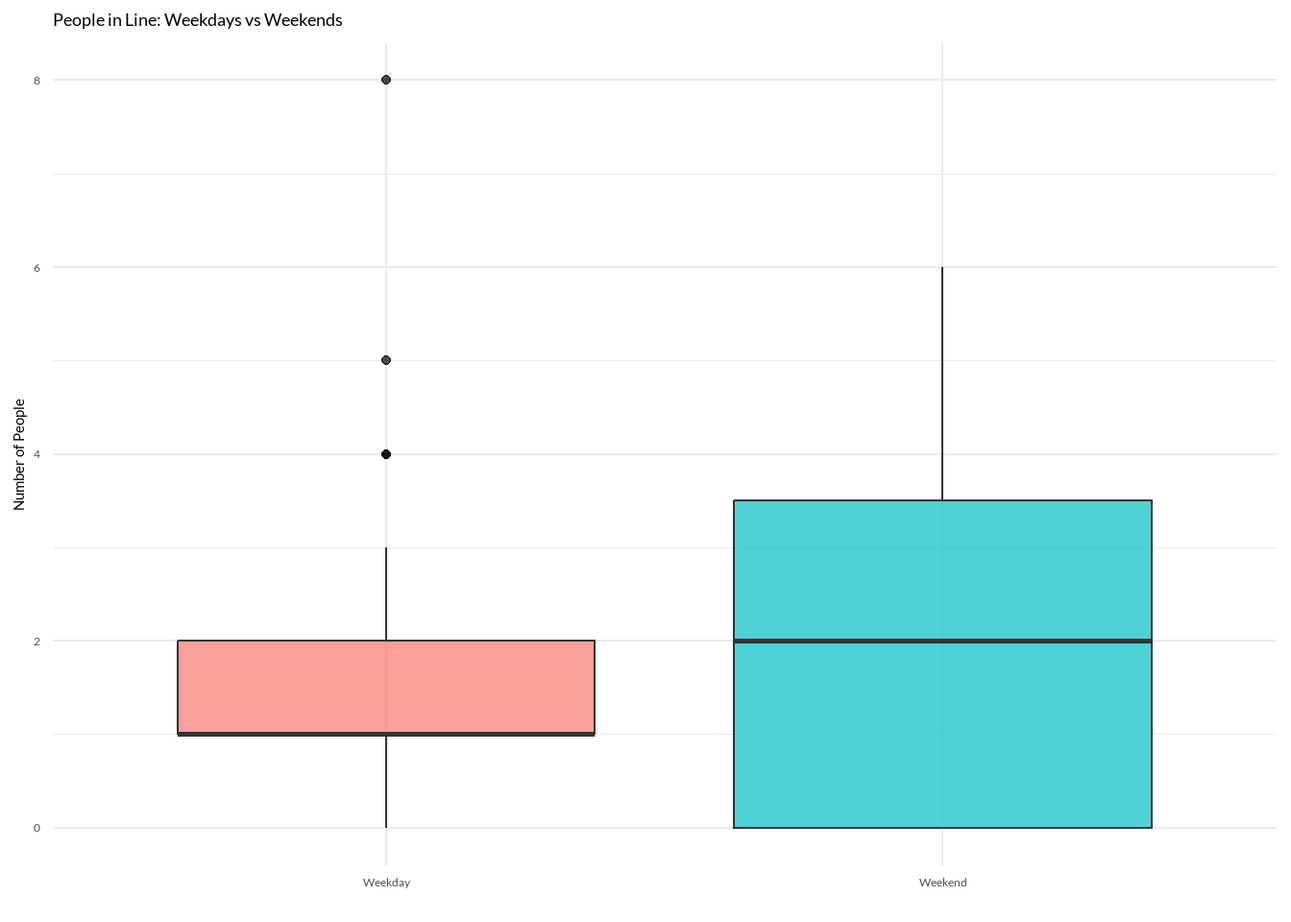
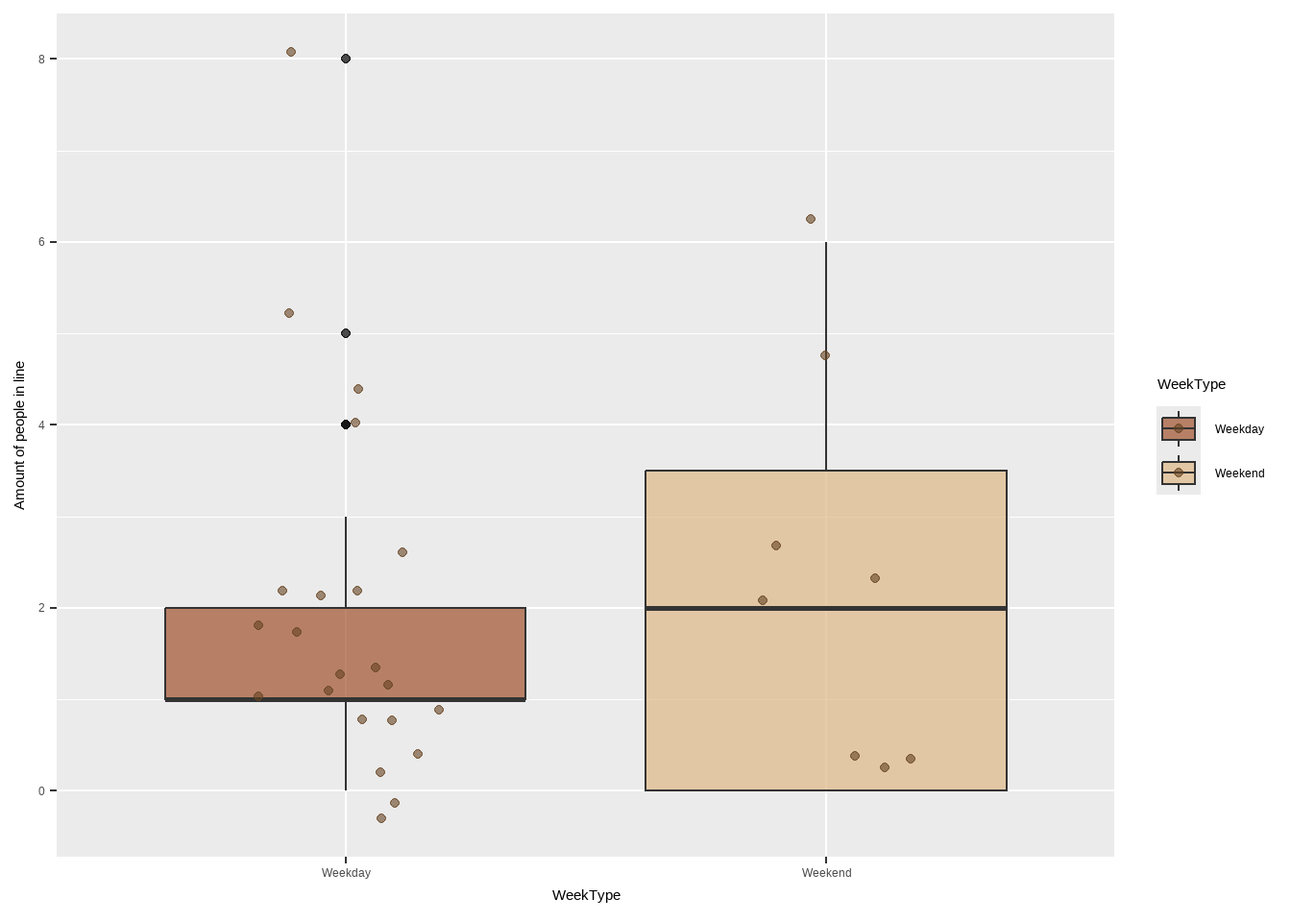
Updating plots, replaced density distribution with raincloud plot. Included individual data points for both box plots. Updated colors and axis titles.

diff --git a/code/Advanced Data Quarto.html b/code/Advanced Data Quarto.html
@@ -7,6 +7,7 @@
 <meta name="viewport" content="width=device-width, initial-scale=1.0, user-scalable=yes">
 
 <meta name="author" content="Alyssa Ambrosini">
+<meta name="dcterms.date" content="2025-05-27">
 
 <title>Advanced Data Visualization</title>
 <style>
@@ -94,6 +95,12 @@ pre > code.sourceCode > span > a:first-child::before { text-decoration: underlin
           </div>
   </div>
     
+    <div>
+    <div class="quarto-title-meta-heading">Published</div>
+    <div class="quarto-title-meta-contents">
+      <p class="date">May 27, 2025</p>
+    </div>
+  </div>
   
     
   </div>
@@ -156,13 +163,29 @@ time (1): Start Time
 <div class="cell">
 <div class="sourceCode cell-code" id="cb10"><pre class="sourceCode r code-with-copy"><code class="sourceCode r"><span id="cb10-1"><a href="#cb10-1" aria-hidden="true" tabindex="-1"></a><span class="co"># Visualization 1: Creation of boxplot for Number of People in Line on Weekdays vs. Weekends</span></span>
 <span id="cb10-2"><a href="#cb10-2" aria-hidden="true" tabindex="-1"></a></span>
-<span id="cb10-3"><a href="#cb10-3" aria-hidden="true" tabindex="-1"></a><span class="fu">ggplot</span>(data, <span class="fu">aes</span>(<span class="at">x =</span> WeekType, <span class="at">y =</span> <span class="st">`</span><span class="at">Amount of people in line</span><span class="st">`</span>, <span class="at">fill =</span> WeekType)) <span class="sc">+</span></span>
+<span id="cb10-3"><a href="#cb10-3" aria-hidden="true" tabindex="-1"></a>plot1 <span class="ot">&lt;-</span> <span class="fu">ggplot</span>(data, <span class="fu">aes</span>(<span class="at">x =</span> WeekType, <span class="at">y =</span> <span class="st">`</span><span class="at">Amount of people in line</span><span class="st">`</span>, <span class="at">fill =</span> WeekType)) <span class="sc">+</span></span>
 <span id="cb10-4"><a href="#cb10-4" aria-hidden="true" tabindex="-1"></a>  <span class="fu">geom_boxplot</span>(<span class="at">alpha =</span> <span class="fl">0.7</span>, <span class="at">outlier.color =</span> <span class="st">"black"</span>) <span class="sc">+</span></span>
-<span id="cb10-5"><a href="#cb10-5" aria-hidden="true" tabindex="-1"></a>  <span class="fu">labs</span>(<span class="at">title =</span> <span class="st">"People in Line: Weekdays vs Weekends"</span>,</span>
-<span id="cb10-6"><a href="#cb10-6" aria-hidden="true" tabindex="-1"></a>       <span class="at">x =</span> <span class="st">""</span>,</span>
-<span id="cb10-7"><a href="#cb10-7" aria-hidden="true" tabindex="-1"></a>       <span class="at">y =</span> <span class="st">"Number of People"</span>) <span class="sc">+</span></span>
-<span id="cb10-8"><a href="#cb10-8" aria-hidden="true" tabindex="-1"></a>  <span class="fu">theme_minimal</span>(<span class="at">base_family =</span> <span class="st">"Lato"</span>) <span class="sc">+</span></span>
-<span id="cb10-9"><a href="#cb10-9" aria-hidden="true" tabindex="-1"></a>  <span class="fu">theme</span>(<span class="at">legend.position =</span> <span class="st">"none"</span>)</span></code><button title="Copy to Clipboard" class="code-copy-button"><i class="bi"></i></button></pre></div>
+<span id="cb10-5"><a href="#cb10-5" aria-hidden="true" tabindex="-1"></a>  <span class="fu">geom_jitter</span>(<span class="at">width =</span> <span class="fl">0.2</span>, <span class="at">size =</span> <span class="fl">1.5</span>, <span class="at">alpha =</span> <span class="fl">0.6</span>, <span class="at">color =</span> <span class="st">"#654321"</span>) <span class="sc">+</span></span>
+<span id="cb10-6"><a href="#cb10-6" aria-hidden="true" tabindex="-1"></a>  <span class="fu">scale_fill_manual</span>(<span class="at">values =</span> <span class="fu">c</span>(<span class="st">"Weekday"</span> <span class="ot">=</span> <span class="st">"#A0522D"</span>,  <span class="co"># sienna (dark brown)</span></span>
+<span id="cb10-7"><a href="#cb10-7" aria-hidden="true" tabindex="-1"></a>                               <span class="st">"Weekend"</span> <span class="ot">=</span> <span class="st">"#DEB887"</span>)) <span class="co"># burlywood (light brown)</span></span>
+<span id="cb10-8"><a href="#cb10-8" aria-hidden="true" tabindex="-1"></a>  <span class="fu">labs</span>(<span class="at">title =</span> <span class="st">"People in Line: Weekdays vs Weekends"</span>,</span>
+<span id="cb10-9"><a href="#cb10-9" aria-hidden="true" tabindex="-1"></a>       <span class="at">x =</span> <span class="st">""</span>,</span>
+<span id="cb10-10"><a href="#cb10-10" aria-hidden="true" tabindex="-1"></a>       <span class="at">y =</span> <span class="st">"Number of People"</span>) <span class="sc">+</span></span>
+<span id="cb10-11"><a href="#cb10-11" aria-hidden="true" tabindex="-1"></a>  <span class="fu">theme_minimal</span>(<span class="at">base_family =</span> <span class="st">"Lato"</span>) <span class="sc">+</span></span>
+<span id="cb10-12"><a href="#cb10-12" aria-hidden="true" tabindex="-1"></a>  <span class="fu">theme</span>(<span class="at">legend.position =</span> <span class="st">"none"</span>)</span></code><button title="Copy to Clipboard" class="code-copy-button"><i class="bi"></i></button></pre></div>
+<div class="cell-output cell-output-stdout">
+<pre><code>NULL</code></pre>
+</div>
+<div class="sourceCode cell-code" id="cb12"><pre class="sourceCode r code-with-copy"><code class="sourceCode r"><span id="cb12-1"><a href="#cb12-1" aria-hidden="true" tabindex="-1"></a><span class="co"># Save the plot</span></span>
+<span id="cb12-2"><a href="#cb12-2" aria-hidden="true" tabindex="-1"></a><span class="fu">png</span>(<span class="st">"my_plot.png"</span>, <span class="at">width =</span> <span class="dv">800</span>, <span class="at">height =</span> <span class="dv">600</span>)</span>
+<span id="cb12-3"><a href="#cb12-3" aria-hidden="true" tabindex="-1"></a><span class="fu">plot</span>(plot1) </span>
+<span id="cb12-4"><a href="#cb12-4" aria-hidden="true" tabindex="-1"></a><span class="fu">dev.off</span>()</span></code><button title="Copy to Clipboard" class="code-copy-button"><i class="bi"></i></button></pre></div>
+<div class="cell-output cell-output-stdout">
+<pre><code>png 
+  2 </code></pre>
+</div>
+<div class="sourceCode cell-code" id="cb14"><pre class="sourceCode r code-with-copy"><code class="sourceCode r"><span id="cb14-1"><a href="#cb14-1" aria-hidden="true" tabindex="-1"></a><span class="co"># Show the plot</span></span>
+<span id="cb14-2"><a href="#cb14-2" aria-hidden="true" tabindex="-1"></a><span class="fu">print</span>(plot1)</span></code><button title="Copy to Clipboard" class="code-copy-button"><i class="bi"></i></button></pre></div>
 <div class="cell-output-display">
 <div>
 <figure class="figure">
@@ -172,86 +195,87 @@ time (1): Start Time
 </div>
 </div>
 <div class="cell">
-<div class="sourceCode cell-code" id="cb11"><pre class="sourceCode r code-with-copy"><code class="sourceCode r"><span id="cb11-1"><a href="#cb11-1" aria-hidden="true" tabindex="-1"></a><span class="co"># Visualization 2: Density plot of duration on weekdays and weekends</span></span>
-<span id="cb11-2"><a href="#cb11-2" aria-hidden="true" tabindex="-1"></a></span>
-<span id="cb11-3"><a href="#cb11-3" aria-hidden="true" tabindex="-1"></a><span class="co"># Add font</span></span>
-<span id="cb11-4"><a href="#cb11-4" aria-hidden="true" tabindex="-1"></a></span>
-<span id="cb11-5"><a href="#cb11-5" aria-hidden="true" tabindex="-1"></a><span class="fu">font_add_google</span>(<span class="st">"Lato"</span>)</span>
-<span id="cb11-6"><a href="#cb11-6" aria-hidden="true" tabindex="-1"></a><span class="fu">showtext_auto</span>()</span>
-<span id="cb11-7"><a href="#cb11-7" aria-hidden="true" tabindex="-1"></a></span>
-<span id="cb11-8"><a href="#cb11-8" aria-hidden="true" tabindex="-1"></a></span>
-<span id="cb11-9"><a href="#cb11-9" aria-hidden="true" tabindex="-1"></a><span class="co"># Create the plot</span></span>
-<span id="cb11-10"><a href="#cb11-10" aria-hidden="true" tabindex="-1"></a>p <span class="ot">&lt;-</span> <span class="fu">ggplot</span>(data, <span class="fu">aes</span>(<span class="at">x =</span> <span class="st">`</span><span class="at">Duration (s)</span><span class="st">`</span>, <span class="at">fill =</span> WeekType)) <span class="sc">+</span></span>
-<span id="cb11-11"><a href="#cb11-11" aria-hidden="true" tabindex="-1"></a>  <span class="fu">geom_density</span>(<span class="at">alpha =</span> <span class="fl">0.5</span>) <span class="sc">+</span></span>
-<span id="cb11-12"><a href="#cb11-12" aria-hidden="true" tabindex="-1"></a>  </span>
-<span id="cb11-13"><a href="#cb11-13" aria-hidden="true" tabindex="-1"></a>  <span class="co"># Arrow pointing to the tail of weekend distribution</span></span>
-<span id="cb11-14"><a href="#cb11-14" aria-hidden="true" tabindex="-1"></a>  <span class="fu">geom_curve</span>(</span>
-<span id="cb11-15"><a href="#cb11-15" aria-hidden="true" tabindex="-1"></a>    <span class="fu">aes</span>(<span class="at">x =</span> <span class="dv">250</span>, <span class="at">y =</span> <span class="fl">0.0055</span>, <span class="at">xend =</span> <span class="dv">300</span>, <span class="at">yend =</span> <span class="fl">0.001</span>),</span>
-<span id="cb11-16"><a href="#cb11-16" aria-hidden="true" tabindex="-1"></a>    <span class="at">arrow =</span> <span class="fu">arrow</span>(<span class="at">length =</span> <span class="fu">unit</span>(<span class="fl">0.03</span>, <span class="st">"npc"</span>)),</span>
-<span id="cb11-17"><a href="#cb11-17" aria-hidden="true" tabindex="-1"></a>    <span class="at">curvature =</span> <span class="sc">-</span><span class="fl">0.3</span>,</span>
-<span id="cb11-18"><a href="#cb11-18" aria-hidden="true" tabindex="-1"></a>    <span class="at">color =</span> <span class="st">"red"</span>,</span>
-<span id="cb11-19"><a href="#cb11-19" aria-hidden="true" tabindex="-1"></a>    <span class="at">size =</span> <span class="fl">0.7</span>,</span>
-<span id="cb11-20"><a href="#cb11-20" aria-hidden="true" tabindex="-1"></a>    <span class="at">inherit.aes =</span> <span class="cn">FALSE</span></span>
-<span id="cb11-21"><a href="#cb11-21" aria-hidden="true" tabindex="-1"></a>  ) <span class="sc">+</span></span>
-<span id="cb11-22"><a href="#cb11-22" aria-hidden="true" tabindex="-1"></a>  </span>
-<span id="cb11-23"><a href="#cb11-23" aria-hidden="true" tabindex="-1"></a>  <span class="co"># Annotation text for the arrow</span></span>
-<span id="cb11-24"><a href="#cb11-24" aria-hidden="true" tabindex="-1"></a>  <span class="fu">annotate</span>(</span>
-<span id="cb11-25"><a href="#cb11-25" aria-hidden="true" tabindex="-1"></a>    <span class="st">"text"</span>,</span>
-<span id="cb11-26"><a href="#cb11-26" aria-hidden="true" tabindex="-1"></a>    <span class="at">x =</span> <span class="dv">250</span>, <span class="at">y =</span> <span class="fl">0.0055</span>,</span>
-<span id="cb11-27"><a href="#cb11-27" aria-hidden="true" tabindex="-1"></a>    <span class="at">label =</span> <span class="st">"Long right tail for wait time</span><span class="sc">\n</span><span class="st">on weekends"</span>,</span>
-<span id="cb11-28"><a href="#cb11-28" aria-hidden="true" tabindex="-1"></a>    <span class="at">hjust =</span> <span class="dv">0</span>,</span>
-<span id="cb11-29"><a href="#cb11-29" aria-hidden="true" tabindex="-1"></a>    <span class="at">size =</span> <span class="dv">4</span>,</span>
-<span id="cb11-30"><a href="#cb11-30" aria-hidden="true" tabindex="-1"></a>    <span class="at">family =</span> <span class="st">"Lato"</span>,</span>
-<span id="cb11-31"><a href="#cb11-31" aria-hidden="true" tabindex="-1"></a>    <span class="at">color =</span> <span class="st">"red"</span></span>
-<span id="cb11-32"><a href="#cb11-32" aria-hidden="true" tabindex="-1"></a>  ) <span class="sc">+</span></span>
-<span id="cb11-33"><a href="#cb11-33" aria-hidden="true" tabindex="-1"></a>  </span>
-<span id="cb11-34"><a href="#cb11-34" aria-hidden="true" tabindex="-1"></a>  <span class="fu">labs</span>(</span>
-<span id="cb11-35"><a href="#cb11-35" aria-hidden="true" tabindex="-1"></a>    <span class="at">title =</span> <span class="st">"Density Distribution of Line Wait Duration on Weekdays and Weekends"</span>,</span>
-<span id="cb11-36"><a href="#cb11-36" aria-hidden="true" tabindex="-1"></a>    <span class="at">x =</span> <span class="st">"Duration (seconds)"</span>,</span>
-<span id="cb11-37"><a href="#cb11-37" aria-hidden="true" tabindex="-1"></a>    <span class="at">y =</span> <span class="st">"Density"</span></span>
-<span id="cb11-38"><a href="#cb11-38" aria-hidden="true" tabindex="-1"></a>  ) <span class="sc">+</span></span>
-<span id="cb11-39"><a href="#cb11-39" aria-hidden="true" tabindex="-1"></a>  <span class="fu">scale_fill_manual</span>(<span class="at">values =</span> <span class="fu">c</span>(<span class="st">"steelblue"</span>, <span class="st">"darkorange"</span>)) <span class="sc">+</span></span>
-<span id="cb11-40"><a href="#cb11-40" aria-hidden="true" tabindex="-1"></a>  <span class="fu">theme_minimal</span>(<span class="at">base_family =</span> <span class="st">"Lato"</span>) <span class="sc">+</span></span>
-<span id="cb11-41"><a href="#cb11-41" aria-hidden="true" tabindex="-1"></a>  <span class="fu">theme</span>(<span class="at">legend.title =</span> <span class="fu">element_blank</span>())</span></code><button title="Copy to Clipboard" class="code-copy-button"><i class="bi"></i></button></pre></div>
+<div class="sourceCode cell-code" id="cb15"><pre class="sourceCode r code-with-copy"><code class="sourceCode r"><span id="cb15-1"><a href="#cb15-1" aria-hidden="true" tabindex="-1"></a><span class="co"># Visualization 2: Density plot of duration on weekdays and weekends</span></span>
+<span id="cb15-2"><a href="#cb15-2" aria-hidden="true" tabindex="-1"></a></span>
+<span id="cb15-3"><a href="#cb15-3" aria-hidden="true" tabindex="-1"></a><span class="co"># Add font</span></span>
+<span id="cb15-4"><a href="#cb15-4" aria-hidden="true" tabindex="-1"></a></span>
+<span id="cb15-5"><a href="#cb15-5" aria-hidden="true" tabindex="-1"></a><span class="fu">font_add_google</span>(<span class="st">"Lato"</span>)</span>
+<span id="cb15-6"><a href="#cb15-6" aria-hidden="true" tabindex="-1"></a><span class="fu">showtext_auto</span>()</span>
+<span id="cb15-7"><a href="#cb15-7" aria-hidden="true" tabindex="-1"></a></span>
+<span id="cb15-8"><a href="#cb15-8" aria-hidden="true" tabindex="-1"></a></span>
+<span id="cb15-9"><a href="#cb15-9" aria-hidden="true" tabindex="-1"></a><span class="co"># Create the plot</span></span>
+<span id="cb15-10"><a href="#cb15-10" aria-hidden="true" tabindex="-1"></a>plot2 <span class="ot">&lt;-</span> <span class="fu">ggplot</span>(data, <span class="fu">aes</span>(<span class="at">x =</span> <span class="st">`</span><span class="at">Duration (s)</span><span class="st">`</span>, <span class="at">fill =</span> WeekType)) <span class="sc">+</span></span>
+<span id="cb15-11"><a href="#cb15-11" aria-hidden="true" tabindex="-1"></a>  <span class="fu">geom_density</span>(<span class="at">alpha =</span> <span class="fl">0.5</span>) <span class="sc">+</span></span>
+<span id="cb15-12"><a href="#cb15-12" aria-hidden="true" tabindex="-1"></a>  </span>
+<span id="cb15-13"><a href="#cb15-13" aria-hidden="true" tabindex="-1"></a>  <span class="co"># Arrow pointing to the tail of weekend distribution</span></span>
+<span id="cb15-14"><a href="#cb15-14" aria-hidden="true" tabindex="-1"></a>  <span class="fu">geom_curve</span>(</span>
+<span id="cb15-15"><a href="#cb15-15" aria-hidden="true" tabindex="-1"></a>    <span class="fu">aes</span>(<span class="at">x =</span> <span class="dv">250</span>, <span class="at">y =</span> <span class="fl">0.0055</span>, <span class="at">xend =</span> <span class="dv">300</span>, <span class="at">yend =</span> <span class="fl">0.001</span>),</span>
+<span id="cb15-16"><a href="#cb15-16" aria-hidden="true" tabindex="-1"></a>    <span class="at">arrow =</span> <span class="fu">arrow</span>(<span class="at">length =</span> <span class="fu">unit</span>(<span class="fl">0.03</span>, <span class="st">"npc"</span>)),</span>
+<span id="cb15-17"><a href="#cb15-17" aria-hidden="true" tabindex="-1"></a>    <span class="at">curvature =</span> <span class="sc">-</span><span class="fl">0.3</span>,</span>
+<span id="cb15-18"><a href="#cb15-18" aria-hidden="true" tabindex="-1"></a>    <span class="at">color =</span> <span class="st">"red"</span>,</span>
+<span id="cb15-19"><a href="#cb15-19" aria-hidden="true" tabindex="-1"></a>    <span class="at">size =</span> <span class="fl">0.7</span>,</span>
+<span id="cb15-20"><a href="#cb15-20" aria-hidden="true" tabindex="-1"></a>    <span class="at">inherit.aes =</span> <span class="cn">FALSE</span></span>
+<span id="cb15-21"><a href="#cb15-21" aria-hidden="true" tabindex="-1"></a>  ) <span class="sc">+</span></span>
+<span id="cb15-22"><a href="#cb15-22" aria-hidden="true" tabindex="-1"></a>  </span>
+<span id="cb15-23"><a href="#cb15-23" aria-hidden="true" tabindex="-1"></a>  <span class="co"># Annotation text for the arrow</span></span>
+<span id="cb15-24"><a href="#cb15-24" aria-hidden="true" tabindex="-1"></a>  <span class="fu">annotate</span>(</span>
+<span id="cb15-25"><a href="#cb15-25" aria-hidden="true" tabindex="-1"></a>    <span class="st">"text"</span>,</span>
+<span id="cb15-26"><a href="#cb15-26" aria-hidden="true" tabindex="-1"></a>    <span class="at">x =</span> <span class="dv">250</span>, <span class="at">y =</span> <span class="fl">0.0055</span>,</span>
+<span id="cb15-27"><a href="#cb15-27" aria-hidden="true" tabindex="-1"></a>    <span class="at">label =</span> <span class="st">"Long right tail for wait time</span><span class="sc">\n</span><span class="st">on weekends"</span>,</span>
+<span id="cb15-28"><a href="#cb15-28" aria-hidden="true" tabindex="-1"></a>    <span class="at">hjust =</span> <span class="dv">0</span>,</span>
+<span id="cb15-29"><a href="#cb15-29" aria-hidden="true" tabindex="-1"></a>    <span class="at">size =</span> <span class="dv">4</span>,</span>
+<span id="cb15-30"><a href="#cb15-30" aria-hidden="true" tabindex="-1"></a>    <span class="at">family =</span> <span class="st">"Lato"</span>,</span>
+<span id="cb15-31"><a href="#cb15-31" aria-hidden="true" tabindex="-1"></a>    <span class="at">color =</span> <span class="st">"red"</span></span>
+<span id="cb15-32"><a href="#cb15-32" aria-hidden="true" tabindex="-1"></a>  ) <span class="sc">+</span></span>
+<span id="cb15-33"><a href="#cb15-33" aria-hidden="true" tabindex="-1"></a>  </span>
+<span id="cb15-34"><a href="#cb15-34" aria-hidden="true" tabindex="-1"></a>  <span class="fu">labs</span>(</span>
+<span id="cb15-35"><a href="#cb15-35" aria-hidden="true" tabindex="-1"></a>    <span class="at">title =</span> <span class="st">"Density Distribution of Line Wait Duration on Weekdays and Weekends"</span>,</span>
+<span id="cb15-36"><a href="#cb15-36" aria-hidden="true" tabindex="-1"></a>    <span class="at">x =</span> <span class="st">"Duration (seconds)"</span>,</span>
+<span id="cb15-37"><a href="#cb15-37" aria-hidden="true" tabindex="-1"></a>    <span class="at">y =</span> <span class="st">"Density"</span></span>
+<span id="cb15-38"><a href="#cb15-38" aria-hidden="true" tabindex="-1"></a>  ) <span class="sc">+</span></span>
+<span id="cb15-39"><a href="#cb15-39" aria-hidden="true" tabindex="-1"></a>  <span class="fu">scale_fill_manual</span>(<span class="at">values =</span> <span class="fu">c</span>(<span class="st">"steelblue"</span>, <span class="st">"darkorange"</span>)) <span class="sc">+</span></span>
+<span id="cb15-40"><a href="#cb15-40" aria-hidden="true" tabindex="-1"></a>  <span class="fu">theme_minimal</span>(<span class="at">base_family =</span> <span class="st">"Lato"</span>) <span class="sc">+</span></span>
+<span id="cb15-41"><a href="#cb15-41" aria-hidden="true" tabindex="-1"></a>  <span class="fu">theme</span>(<span class="at">legend.title =</span> <span class="fu">element_blank</span>())</span></code><button title="Copy to Clipboard" class="code-copy-button"><i class="bi"></i></button></pre></div>
 <div class="cell-output cell-output-stderr">
 <pre><code>Warning: Using `size` aesthetic for lines was deprecated in ggplot2 3.4.0.
 ℹ Please use `linewidth` instead.</code></pre>
 </div>
-<div class="sourceCode cell-code" id="cb13"><pre class="sourceCode r code-with-copy"><code class="sourceCode r"><span id="cb13-1"><a href="#cb13-1" aria-hidden="true" tabindex="-1"></a><span class="co"># Print the plot</span></span>
-<span id="cb13-2"><a href="#cb13-2" aria-hidden="true" tabindex="-1"></a>p</span></code><button title="Copy to Clipboard" class="code-copy-button"><i class="bi"></i></button></pre></div>
+<div class="sourceCode cell-code" id="cb17"><pre class="sourceCode r code-with-copy"><code class="sourceCode r"><span id="cb17-1"><a href="#cb17-1" aria-hidden="true" tabindex="-1"></a><span class="co"># Save the plot</span></span>
+<span id="cb17-2"><a href="#cb17-2" aria-hidden="true" tabindex="-1"></a><span class="fu">png</span>(<span class="st">"my_plot2.png"</span>, <span class="at">width =</span> <span class="dv">800</span>, <span class="at">height =</span> <span class="dv">600</span>)</span>
+<span id="cb17-3"><a href="#cb17-3" aria-hidden="true" tabindex="-1"></a><span class="fu">plot</span>(plot2) </span></code><button title="Copy to Clipboard" class="code-copy-button"><i class="bi"></i></button></pre></div>
 <div class="cell-output cell-output-stderr">
 <pre><code>Warning in geom_curve(aes(x = 250, y = 0.0055, xend = 300, yend = 0.001), : All aesthetics have length 1, but the data has 30 rows.
 ℹ Please consider using `annotate()` or provide this layer with data containing
   a single row.</code></pre>
 </div>
-<div class="cell-output-display">
-<div>
-<figure class="figure">
-<p><img src="Advanced-Data-Quarto_files/figure-html/unnamed-chunk-4-1.png" class="img-fluid figure-img" width="672"></p>
-</figure>
-</div>
+<div class="sourceCode cell-code" id="cb19"><pre class="sourceCode r code-with-copy"><code class="sourceCode r"><span id="cb19-1"><a href="#cb19-1" aria-hidden="true" tabindex="-1"></a><span class="fu">dev.off</span>()</span></code><button title="Copy to Clipboard" class="code-copy-button"><i class="bi"></i></button></pre></div>
+<div class="cell-output cell-output-stdout">
+<pre><code>png 
+  2 </code></pre>
 </div>
 </div>
 <div class="cell">
-<div class="sourceCode cell-code" id="cb15"><pre class="sourceCode r code-with-copy"><code class="sourceCode r"><span id="cb15-1"><a href="#cb15-1" aria-hidden="true" tabindex="-1"></a><span class="co"># Visualization 3: Creating second boxplot showing duration of line wait on weekdays vs. weekends</span></span>
-<span id="cb15-2"><a href="#cb15-2" aria-hidden="true" tabindex="-1"></a><span class="fu">ggplot</span>(data, <span class="fu">aes</span>(<span class="at">x =</span> WeekType, <span class="at">y =</span> <span class="st">`</span><span class="at">Duration (s)</span><span class="st">`</span>, <span class="at">fill =</span> WeekType)) <span class="sc">+</span></span>
-<span id="cb15-3"><a href="#cb15-3" aria-hidden="true" tabindex="-1"></a>  <span class="fu">geom_boxplot</span>(<span class="at">alpha =</span> <span class="fl">0.7</span>, <span class="at">outlier.color =</span> <span class="st">"black"</span>, <span class="at">width =</span> <span class="fl">0.5</span>) <span class="sc">+</span></span>
-<span id="cb15-4"><a href="#cb15-4" aria-hidden="true" tabindex="-1"></a>  <span class="fu">labs</span>(</span>
-<span id="cb15-5"><a href="#cb15-5" aria-hidden="true" tabindex="-1"></a>    <span class="at">title =</span> <span class="st">"Observation Duration: Weekdays vs Weekends"</span>,</span>
-<span id="cb15-6"><a href="#cb15-6" aria-hidden="true" tabindex="-1"></a>    <span class="at">x =</span> <span class="st">""</span>,</span>
-<span id="cb15-7"><a href="#cb15-7" aria-hidden="true" tabindex="-1"></a>    <span class="at">y =</span> <span class="st">"Duration (seconds)"</span></span>
-<span id="cb15-8"><a href="#cb15-8" aria-hidden="true" tabindex="-1"></a>  ) <span class="sc">+</span></span>
-<span id="cb15-9"><a href="#cb15-9" aria-hidden="true" tabindex="-1"></a>  <span class="fu">theme_minimal</span>(<span class="at">base_family =</span> <span class="st">"Lato"</span>) <span class="sc">+</span></span>
-<span id="cb15-10"><a href="#cb15-10" aria-hidden="true" tabindex="-1"></a>  <span class="fu">theme</span>(</span>
-<span id="cb15-11"><a href="#cb15-11" aria-hidden="true" tabindex="-1"></a>    <span class="at">legend.position =</span> <span class="st">"none"</span>,</span>
-<span id="cb15-12"><a href="#cb15-12" aria-hidden="true" tabindex="-1"></a>    <span class="at">plot.title =</span> <span class="fu">element_text</span>(<span class="at">size =</span> <span class="dv">14</span>, <span class="at">face =</span> <span class="st">"bold"</span>)</span>
-<span id="cb15-13"><a href="#cb15-13" aria-hidden="true" tabindex="-1"></a>  )</span></code><button title="Copy to Clipboard" class="code-copy-button"><i class="bi"></i></button></pre></div>
-<div class="cell-output-display">
-<div>
-<figure class="figure">
-<p><img src="Advanced-Data-Quarto_files/figure-html/unnamed-chunk-5-1.png" class="img-fluid figure-img" width="672"></p>
-</figure>
-</div>
+<div class="sourceCode cell-code" id="cb21"><pre class="sourceCode r code-with-copy"><code class="sourceCode r"><span id="cb21-1"><a href="#cb21-1" aria-hidden="true" tabindex="-1"></a><span class="co"># Visualization 3: Creating second boxplot showing duration of line wait on weekdays vs. weekends</span></span>
+<span id="cb21-2"><a href="#cb21-2" aria-hidden="true" tabindex="-1"></a>plot3 <span class="ot">&lt;-</span> <span class="fu">ggplot</span>(data, <span class="fu">aes</span>(<span class="at">x =</span> WeekType, <span class="at">y =</span> <span class="st">`</span><span class="at">Duration (s)</span><span class="st">`</span>, <span class="at">fill =</span> WeekType)) <span class="sc">+</span></span>
+<span id="cb21-3"><a href="#cb21-3" aria-hidden="true" tabindex="-1"></a>  <span class="fu">geom_boxplot</span>(<span class="at">alpha =</span> <span class="fl">0.7</span>, <span class="at">outlier.color =</span> <span class="st">"black"</span>, <span class="at">width =</span> <span class="fl">0.5</span>) <span class="sc">+</span></span>
+<span id="cb21-4"><a href="#cb21-4" aria-hidden="true" tabindex="-1"></a>  <span class="fu">labs</span>(</span>
+<span id="cb21-5"><a href="#cb21-5" aria-hidden="true" tabindex="-1"></a>    <span class="at">title =</span> <span class="st">"Observation Duration: Weekdays vs Weekends"</span>,</span>
+<span id="cb21-6"><a href="#cb21-6" aria-hidden="true" tabindex="-1"></a>    <span class="at">x =</span> <span class="st">""</span>,</span>
+<span id="cb21-7"><a href="#cb21-7" aria-hidden="true" tabindex="-1"></a>    <span class="at">y =</span> <span class="st">"Duration (seconds)"</span></span>
+<span id="cb21-8"><a href="#cb21-8" aria-hidden="true" tabindex="-1"></a>  ) <span class="sc">+</span></span>
+<span id="cb21-9"><a href="#cb21-9" aria-hidden="true" tabindex="-1"></a>  <span class="fu">theme_minimal</span>(<span class="at">base_family =</span> <span class="st">"Lato"</span>) <span class="sc">+</span></span>
+<span id="cb21-10"><a href="#cb21-10" aria-hidden="true" tabindex="-1"></a>  <span class="fu">theme</span>(</span>
+<span id="cb21-11"><a href="#cb21-11" aria-hidden="true" tabindex="-1"></a>    <span class="at">legend.position =</span> <span class="st">"none"</span>,</span>
+<span id="cb21-12"><a href="#cb21-12" aria-hidden="true" tabindex="-1"></a>    <span class="at">plot.title =</span> <span class="fu">element_text</span>(<span class="at">size =</span> <span class="dv">14</span>, <span class="at">face =</span> <span class="st">"bold"</span>)</span>
+<span id="cb21-13"><a href="#cb21-13" aria-hidden="true" tabindex="-1"></a>  )</span>
+<span id="cb21-14"><a href="#cb21-14" aria-hidden="true" tabindex="-1"></a></span>
+<span id="cb21-15"><a href="#cb21-15" aria-hidden="true" tabindex="-1"></a><span class="co"># Save the plot</span></span>
+<span id="cb21-16"><a href="#cb21-16" aria-hidden="true" tabindex="-1"></a><span class="fu">png</span>(<span class="st">"my_plot3.png"</span>, <span class="at">width =</span> <span class="dv">800</span>, <span class="at">height =</span> <span class="dv">600</span>)</span>
+<span id="cb21-17"><a href="#cb21-17" aria-hidden="true" tabindex="-1"></a><span class="fu">plot</span>(plot3) </span>
+<span id="cb21-18"><a href="#cb21-18" aria-hidden="true" tabindex="-1"></a><span class="fu">dev.off</span>()</span></code><button title="Copy to Clipboard" class="code-copy-button"><i class="bi"></i></button></pre></div>
+<div class="cell-output cell-output-stdout">
+<pre><code>png 
+  2 </code></pre>
 </div>
 </div>
 
